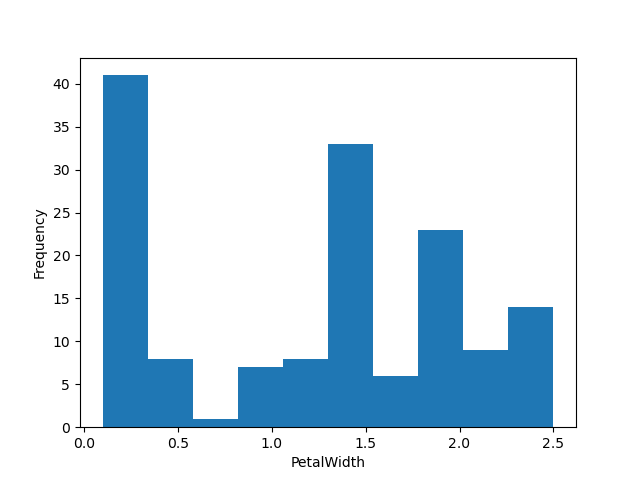
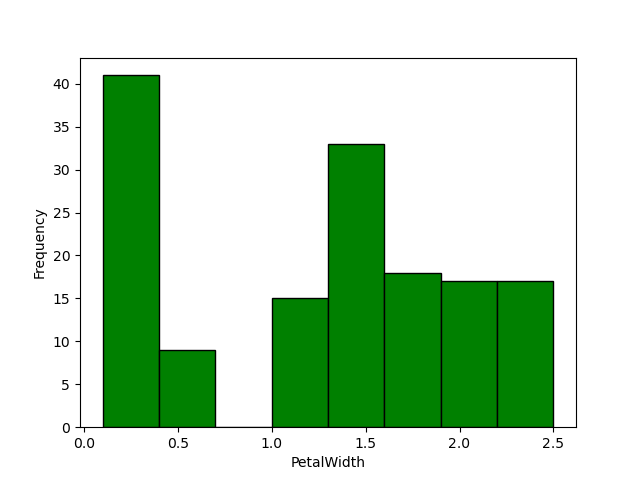
Histograms Edited

Changed region(s): [[0.1562, 0.1562, 0.875, 0.9062]]

diff --git a/analysis.py b/analysis.py
@@ -15,7 +15,7 @@ with open('iris_summary.txt', 'w') as f:            # Opens files without having
 
 # Histogram pf each variable to PNG files
 for col in iris_data.columns[:-1]:                  # Iterates over each column in the dataframe except the last one
-    plt.hist(iris_data[col], bins = 10)             # Creates a histogram, with 10 bins, for each column
+    plt.hist(iris_data[col], bins = 8, color = 'green', edgecolor = 'black')   # Creates a histogram, with 10 bins, for each column
     plt.xlabel(col)                                 # X label
     plt.ylabel('Frequency')                         # Y label
     plt.savefig(f'{col}_histogram.png')             # Saves histogram as a PNG file
